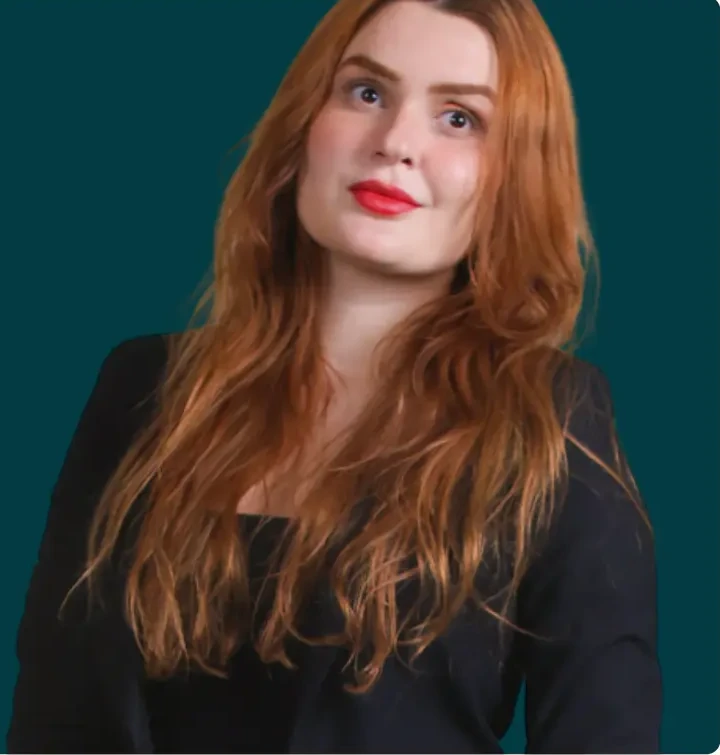
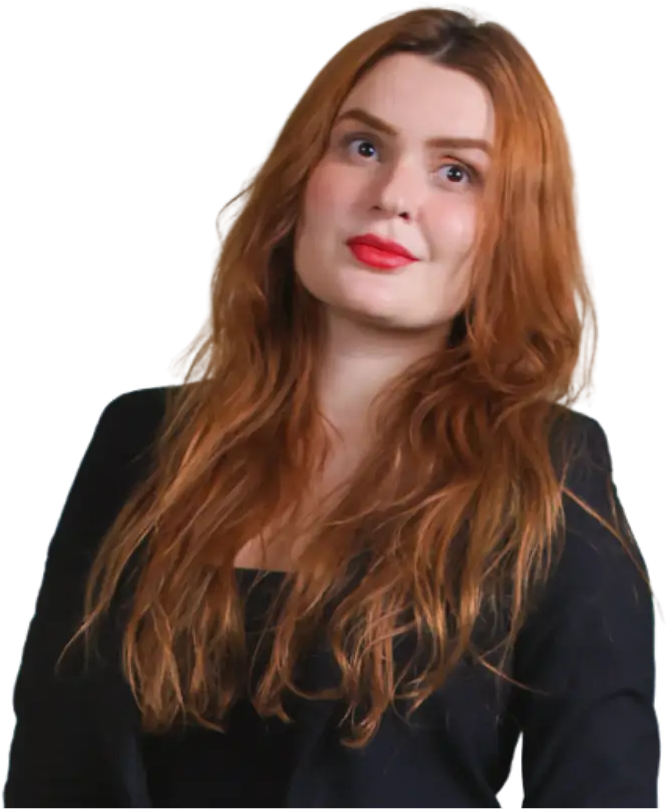
Corrige estrutura do card da Equipa com fotos sem fundo
Usa as fotos com fundo removido e redimensiona pela proporção
real da imagem, em vez de esticar/cortar para preencher o card.
Isso restaura o efeito de sangria do design original (a foto
maior do que a caixa) sem cortar a cabeça em nenhum tamanho de ecrã.

diff --git a/index.html b/index.html
@@ -88,12 +88,12 @@
   .equipa .intro{max-width:40rem;margin-bottom:56px;}
   .equipa h2{font-family:'Jost',sans-serif;font-weight:300;font-size:clamp(2rem,3.8vw,3.3rem);line-height:1.08;letter-spacing:-.02em;margin:0;color:#103237;text-wrap:balance;}
   .team-list{display:flex;flex-direction:column;gap:90px;}
-  .team-card{position:relative;background:#033b43;border-radius:28px;padding:64px 60px;min-height:460px;overflow:hidden;}
+  .team-card{position:relative;background:#033b43;border-radius:28px;padding:64px 60px;min-height:460px;overflow:visible;}
   .team-text{position:relative;z-index:2;max-width:56%;}
   .team-name{font-family:'Jost',sans-serif;font-weight:700;font-size:clamp(2.1rem,4.2vw,3.6rem);text-transform:uppercase;color:#f7f5ef;line-height:1.05;letter-spacing:-.01em;margin:0 0 26px;}
   .team-text p{color:rgba(255,255,255,.82);font-size:15px;line-height:1.75;margin:0 0 18px;}
   .team-text .team-quote{font-family:'Jost',sans-serif;font-weight:300;font-style:italic;font-size:1.05rem;line-height:1.6;color:#7fd4dc;margin:22px 0 0;border-left:2px solid rgba(127,212,220,.5);padding-left:18px;}
-  .team-photo{position:absolute;top:0;right:0;bottom:0;width:42%;object-fit:cover;object-position:top center;}
+  .team-photo{position:absolute;right:0;bottom:0;width:44%;height:auto;display:block;filter:drop-shadow(0 24px 40px rgba(0,0,0,.35));}
   .team-portfolio-wrap{text-align:center;margin-top:-28px;position:relative;z-index:3;}
   .btn-portfolio{display:inline-block;background:#033b43;color:#fff;padding:16px 34px;border-radius:999px;font-size:14px;font-weight:600;letter-spacing:.02em;transition:background .25s;cursor:default;}
   .btn-portfolio:hover{background:#00272c;}
@@ -171,9 +171,9 @@
     .about-img{aspect-ratio:16/10;}
     .hero-inner{padding:90px 22px;}
     .team-list{gap:56px;}
-    .team-card{padding:32px 24px 40px;overflow:hidden;}
+    .team-card{padding:32px 24px 40px;overflow:visible;}
     .team-text{max-width:100%;}
-    .team-photo{position:static;width:100%;height:280px;border-radius:18px;margin-bottom:22px;}
+    .team-photo{position:static;width:64%;max-width:280px;height:auto;display:block;margin:0 auto 22px;filter:none;}
     .team-portfolio-wrap{margin-top:20px;}
   }
   @media (max-width:560px){
